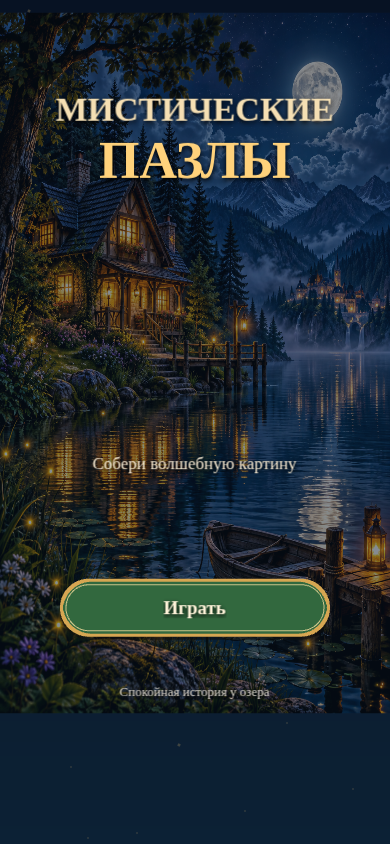
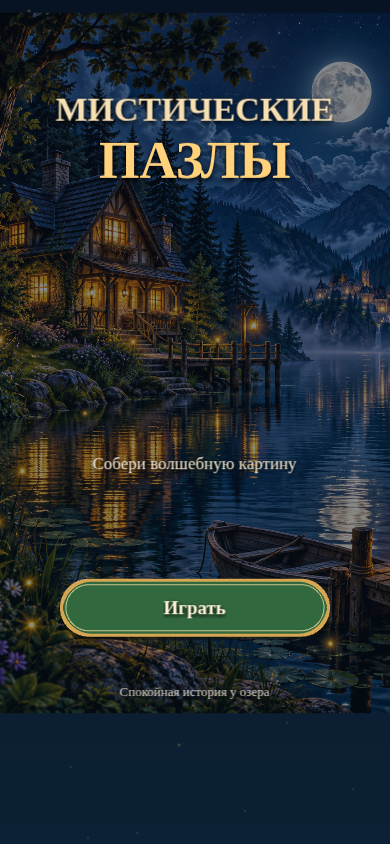
Refine desktop layout and capture desktop completion

Changed region(s): [[0.0, 0.0, 1.0, 0.8626], [0.5231, 0.0, 0.6769, 0.1232], [0.7077, 0.5237, 0.7385, 0.5545]]

diff --git a/src/main.ts b/src/main.ts
@@ -22,6 +22,7 @@ class PuzzleScene extends Phaser.Scene {
   private ui!: Phaser.GameObjects.Graphics;
   private menuArt: Phaser.GameObjects.Image | null = null;
   private guideImage: Phaser.GameObjects.Image | null = null;
+  private completeImage: Phaser.GameObjects.Image | null = null;
 
   constructor() { super('puzzle'); }
 
@@ -114,8 +115,9 @@ class PuzzleScene extends Phaser.Scene {
     if (this.mode === 'menu') { if (pointer.y > this.scale.height * 0.62 && pointer.y < this.scale.height * 0.86) this.startGame(); return; }
     if (this.mode === 'soon') { this.mode = 'menu'; this.draw(); return; }
     if (this.mode === 'complete') { if (canAdvance(true, this.nextButton().contains(pointer.x, pointer.y))) { this.mode = 'soon'; this.draw(); } return; }
-    if (pointer.y < 72 && pointer.x < 88) { this.mode = 'menu'; this.removePieces(); this.draw(); return; }
-    if (pointer.y < 82 && pointer.x > this.scale.width - 80) { this.showHint(); return; }
+    const header = this.headerRect();
+    if (pointer.y < 72 && pointer.x >= header.x && pointer.x < header.x + 78) { this.mode = 'menu'; this.removePieces(); this.draw(); return; }
+    if (pointer.y < 82 && pointer.x > header.x + header.width - 80 && pointer.x < header.x + header.width) { this.showHint(); return; }
     const x = pointer.x, y = pointer.y;
     const hit = [...this.pieces].reverse().find(piece => canDrag(piece.placed) && this.pieceContains(piece, x, y));
     if (!hit) return;
@@ -169,8 +171,8 @@ class PuzzleScene extends Phaser.Scene {
     // Replace all cutout textures with one exact copy of the source art.
     this.pieces.forEach(p => p.sprite.destroy()); this.pieces = [];
     this.guideImage?.destroy(); this.guideImage = null;
-    const whole = this.add.image(this.board.x + this.board.width / 2, this.board.y + this.board.height / 2, 'whole-picture').setDepth(3).setDisplaySize(this.board.width, this.board.height).setAlpha(0);
-    this.tweens.add({ targets: whole, alpha: 1, duration: 750, ease: 'Sine.Out' });
+    this.completeImage = this.add.image(this.board.x + this.board.width / 2, this.board.y + this.board.height / 2, 'whole-picture').setDepth(3).setDisplaySize(this.board.width, this.board.height).setAlpha(0);
+    this.tweens.add({ targets: this.completeImage, alpha: 1, duration: 750, ease: 'Sine.Out' });
     localStorage.setItem('mystic-puzzles-complete', 'true');
     this.cameras.main.flash(300, 255, 220, 143, false);
     this.draw();
@@ -188,9 +190,10 @@ class PuzzleScene extends Phaser.Scene {
   }
 
   private startGame() { this.menuArt?.destroy(); this.menuArt = null; this.mode = 'game'; this.layout(); this.preparePieces(); this.draw(); }
-  private removePieces() { this.pieces.forEach(p => p.sprite.destroy()); this.pieces = []; this.guideImage?.destroy(); this.guideImage = null; this.children.list.filter(c => c instanceof Phaser.GameObjects.Image && c.texture.key === 'whole-picture').forEach(c => c.destroy()); }
+  private removePieces() { this.pieces.forEach(p => p.sprite.destroy()); this.pieces = []; this.guideImage?.destroy(); this.guideImage = null; this.completeImage = null; this.children.list.filter(c => c instanceof Phaser.GameObjects.Image && c.texture.key === 'whole-picture').forEach(c => c.destroy()); }
   private persistProgress() { localStorage.setItem('mystic-puzzles-progress', JSON.stringify({ level: 1, placed: this.pieces.filter(p => p.placed).map(p => p.id) })); }
   private nextButton() { return new Phaser.Geom.Rectangle(this.scale.width * 0.16, this.scale.height - 76, this.scale.width * 0.68, 54); }
+  private headerRect() { const width = Math.min(this.scale.width - 24, this.board.width + 10 || 520); return { x: (this.scale.width - width) / 2, width }; }
 
   update() {
     if (this.mode === 'game' && this.hintPiece && this.time.now < this.hintUntil) {
@@ -218,7 +221,9 @@ class PuzzleScene extends Phaser.Scene {
   private drawMenu(w: number, h: number) {
     if (this.artLoaded) {
       if (!this.menuArt || !this.menuArt.active) this.menuArt = this.add.image(w / 2, h * 0.43, 'moonlit').setDepth(1);
-      this.menuArt.setVisible(true).setPosition(w / 2, h * 0.43).setDisplaySize(w, h * 0.83).setAlpha(0.82);
+      const artHeight = Math.min(h * 0.83, 780);
+      const artWidth = artHeight * this.art.naturalWidth / this.art.naturalHeight;
+      this.menuArt.setVisible(true).setPosition(w / 2, h * 0.43).setDisplaySize(artWidth, artHeight).setAlpha(0.82);
     }
     this.ui.fillStyle(0x06101d, 0.38); this.ui.fillRect(0, 0, w, h);
     this.txt(w / 2, h * 0.13, 'МИСТИЧЕСКИЕ', Math.min(34, w * 0.088), '#f5dfb3', true);
@@ -232,12 +237,13 @@ class PuzzleScene extends Phaser.Scene {
     this.layout();
     this.menuArt?.setVisible(false);
     if (this.mode === 'game' && this.guideImage) this.guideImage.setPosition(this.board.x + this.board.width / 2, this.board.y + this.board.height / 2).setDisplaySize(this.board.width, this.board.height);
-    this.ui.fillStyle(0x142c42, 0.92); this.ui.fillRoundedRect(12, 8, w - 24, 64, 18);
-    this.txt(54, 39, '‹', 36, '#ffe0a0', true);
+    const header = this.headerRect();
+    this.ui.fillStyle(0x142c42, 0.92); this.ui.fillRoundedRect(header.x, 8, header.width, 64, 18);
+    this.txt(header.x + 42, 39, '‹', 36, '#ffe0a0', true);
     this.txt(w / 2, 24, 'УРОВЕНЬ 1', 15, '#f8e5bf', true);
     const stars = this.completeAmount >= 8 ? '★ ★ ★' : this.completeAmount >= 4 ? '★ ★ ☆' : this.completeAmount > 0 ? '★ ☆ ☆' : '☆ ☆ ☆';
     this.txt(w / 2, 49, stars, 18, '#ffc95e');
-    this.txt(w - 43, 38, '✦', 27, '#ffe08a', true);
+    this.txt(header.x + header.width - 42, 38, '✦', 27, '#ffe08a', true);
     if (this.artLoaded && this.board.width > 0) {
       this.ui.fillStyle(0x030a13, 0.62); this.ui.fillRoundedRect(this.board.x - 5, this.board.y - 5, this.board.width + 10, this.board.height + 10, 20);
       this.ui.lineStyle(1.5, 0xc99753, 0.82); this.ui.strokeRoundedRect(this.board.x - 5, this.board.y - 5, this.board.width + 10, this.board.height + 10, 20);
@@ -246,6 +252,7 @@ class PuzzleScene extends Phaser.Scene {
       }
     }
     if (this.mode === 'complete') {
+      this.completeImage?.setPosition(this.board.x + this.board.width / 2, this.board.y + this.board.height / 2).setDisplaySize(this.board.width, this.board.height);
       this.txt(w / 2, this.board.y + this.board.height + 24, 'Картина ожила ✨', 17, '#ffe6b1', true);
       this.txt(w / 2, this.board.y + this.board.height + 48, 'Пусть этот вечер останется с тобой', 12, '#d7d1c6');
       this.button(w / 2, h - 48, Math.min(310, w * 0.72), 52, 'Следующий уровень', true);
